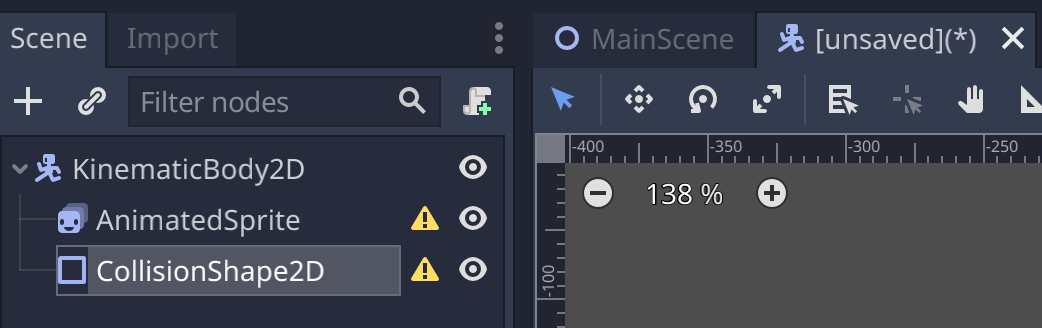
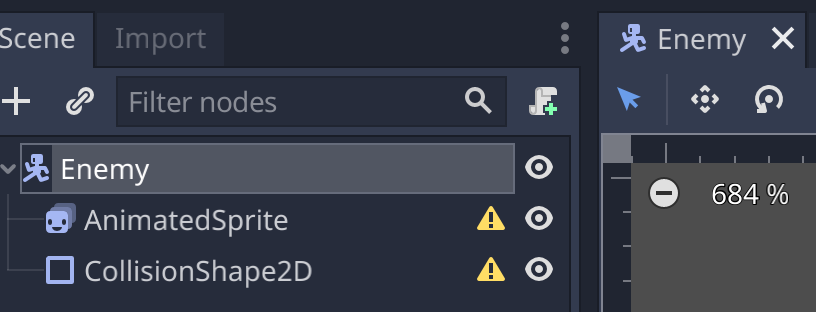
Ch11.1 Use inheritance for Enemy nodes

diff --git a/README.md b/README.md
@@ -294,7 +294,7 @@ func _process (delta):
 
 No game is complete without enemies! 
 
-Create a new node KinematicBody2D with the below children and save it as EnemyRed.tscn and rename the node as EnemyRed. 
+Create a new node KinematicBody2D with the below children and save it as Enemy.tscn and rename the node as Enemy. 
 1. Animated Sprite
 2. CollisionShape2D
 
@@ -354,11 +354,22 @@ func _physics_process(delta):
 	vel.y += gravity * delta
 ```
 
-If you play the MainScene, you'll notice the enemy fall down to the ground and start moving.
+Drag the Enemy scene into the MainScene. If you play the MainScene, you'll notice the enemy fall down to the ground and start moving.
 
-Create a few more enemy nodes with the same above steps but with different names and spritesheets. Add one of each to the MainScene for testing. Don't forget to rename the KinematicBody2D node as well.
-1. EnemyBlue - 'spritesheet-enemy-2.png'
-2. EnemyGreen - 'spritesheet-enemy-3.png'
+Now, we'll create different Enemy nodes. But, we want them to share the same characteristics except different speeds and spritesheets.
+
+To do so, select Scene > New Inherited Scene... Select the Enemy.tscn. Notice that it'll have a new unsaved scene. Save it as Enemy{COLOR}.tscn
+
+![Image of unsaved inherited Enemy scene](Ch%2006%20-%20Create%20Enemy/pic_inherit-enemy.png)
+
+You'll notice that if you load another spritesheet, it'll affect the parent scene (Enemy.tscn). To avoid this, in the newly created scene, select the AnimatedSprite and the wrench icon in the Inspector. Select 'Make sub-resources unique'.
+
+![Image of subresources unique option](Ch%2006%20-%20Create%20Enemy/pic_unique-sub-resources.png)
+
+Create a few more enemy nodes with the same above steps but with different names, spritesheets, speeds, and distances. Remove the existing Enemy.tscn scene. Then, add one of each to the MainScene for testing. Don't forget to rename the KinematicBody2D node as well.
+1. EnemyRed - 'spritesheet-enemy-1.png'
+2. EnemyBlue - 'spritesheet-enemy-2.png'
+3. EnemyGreen - 'spritesheet-enemy-3.png'
 
 Also, you might want to expand your DirtTileMap b/c we need space to add the enemies.
 
